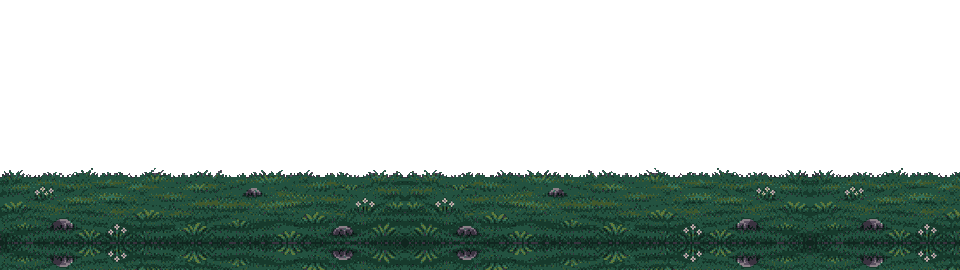
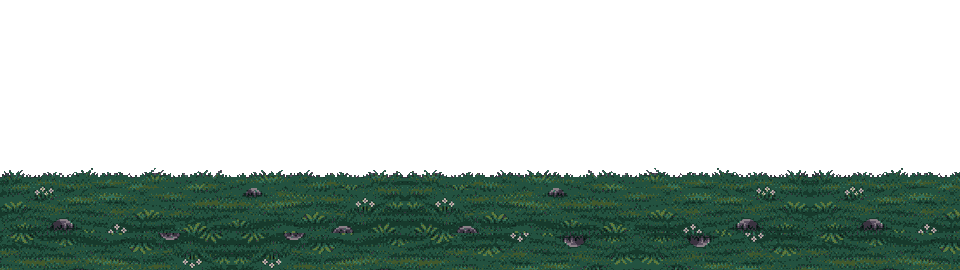
feat(camp): enhance ground layer properties with mirrorTrim and mirrorShift options

Changed region(s): [[0.0, 0.8593, 1.0, 1.0]]

diff --git a/implementation/frontend/scripts/camp-art/slice.ts b/implementation/frontend/scripts/camp-art/slice.ts
@@ -96,6 +96,16 @@ export type LayerPlacement = {
   /** Repeat the image downwards, flipped, to fill the canvas. */
   mirrorDown?: boolean
   /**
+   * With `mirrorDown`: painted rows at the bottom to leave out before reflecting,
+   * for a source whose lower edge is darkened or dashed and would show as a seam.
+   */
+  mirrorTrim?: number
+  /**
+   * With `mirrorDown`: shifts the reflected copies sideways by this many pixels,
+   * so props are not mirrored into obvious pairs across the axis.
+   */
+  mirrorShift?: number
+  /**
    * Fills below each painted column down to this row (exclusive) with the layer's
    * most common bottom-edge colour, so a distant ridge never leaves sky showing
    * below it where the nearer layers are sparse.
@@ -110,7 +120,15 @@ const bounce = (value: number, size: number) => {
 }
 
 export function composeLayer(image: Quantized, placement: LayerPlacement): Quantized {
-  const { width, height, tile, anchor, mirrorDown = false } = placement
+  const {
+    width,
+    height,
+    tile,
+    anchor,
+    mirrorDown = false,
+    mirrorTrim = 0,
+    mirrorShift = 0,
+  } = placement
   const indices = new Int16Array(width * height).fill(-1)
 
   const rowIsClear = (row: number) =>
@@ -119,6 +137,7 @@ export function composeLayer(image: Quantized, placement: LayerPlacement): Quant
   let lastRow = image.height - 1
   while (firstRow < image.height && rowIsClear(firstRow)) firstRow += 1
   while (lastRow > firstRow && rowIsClear(lastRow)) lastRow -= 1
+  if (mirrorDown) lastRow = Math.max(firstRow, lastRow - mirrorTrim)
 
   // Mirroring downwards reflects about the last painted row, not the image edge.
   const offsetY = anchor
@@ -130,14 +149,17 @@ export function composeLayer(image: Quantized, placement: LayerPlacement): Quant
   for (let y = 0; y < height; y += 1) {
     const sourceRow = y - offsetY
     let row = sourceRow
+    let shift = 0
     if (mirrorDown) {
       if (sourceRow < firstRow) continue
-      row = firstRow + bounce(sourceRow - firstRow, lastRow - firstRow + 1)
+      const size = lastRow - firstRow + 1
+      row = firstRow + bounce(sourceRow - firstRow, size)
+      if (sourceRow - firstRow >= size) shift = mirrorShift
     }
     if (row < 0 || row >= image.height) continue
     for (let x = 0; x < width; x += 1) {
       let column: number
-      if (tile === 'mirror') column = bounce(x, image.width)
+      if (tile === 'mirror') column = bounce(x + shift, image.width)
       else if (tile === 'edges') {
         const half = image.width / 2
         if (x < width / 2) column = x < half ? x : -1
